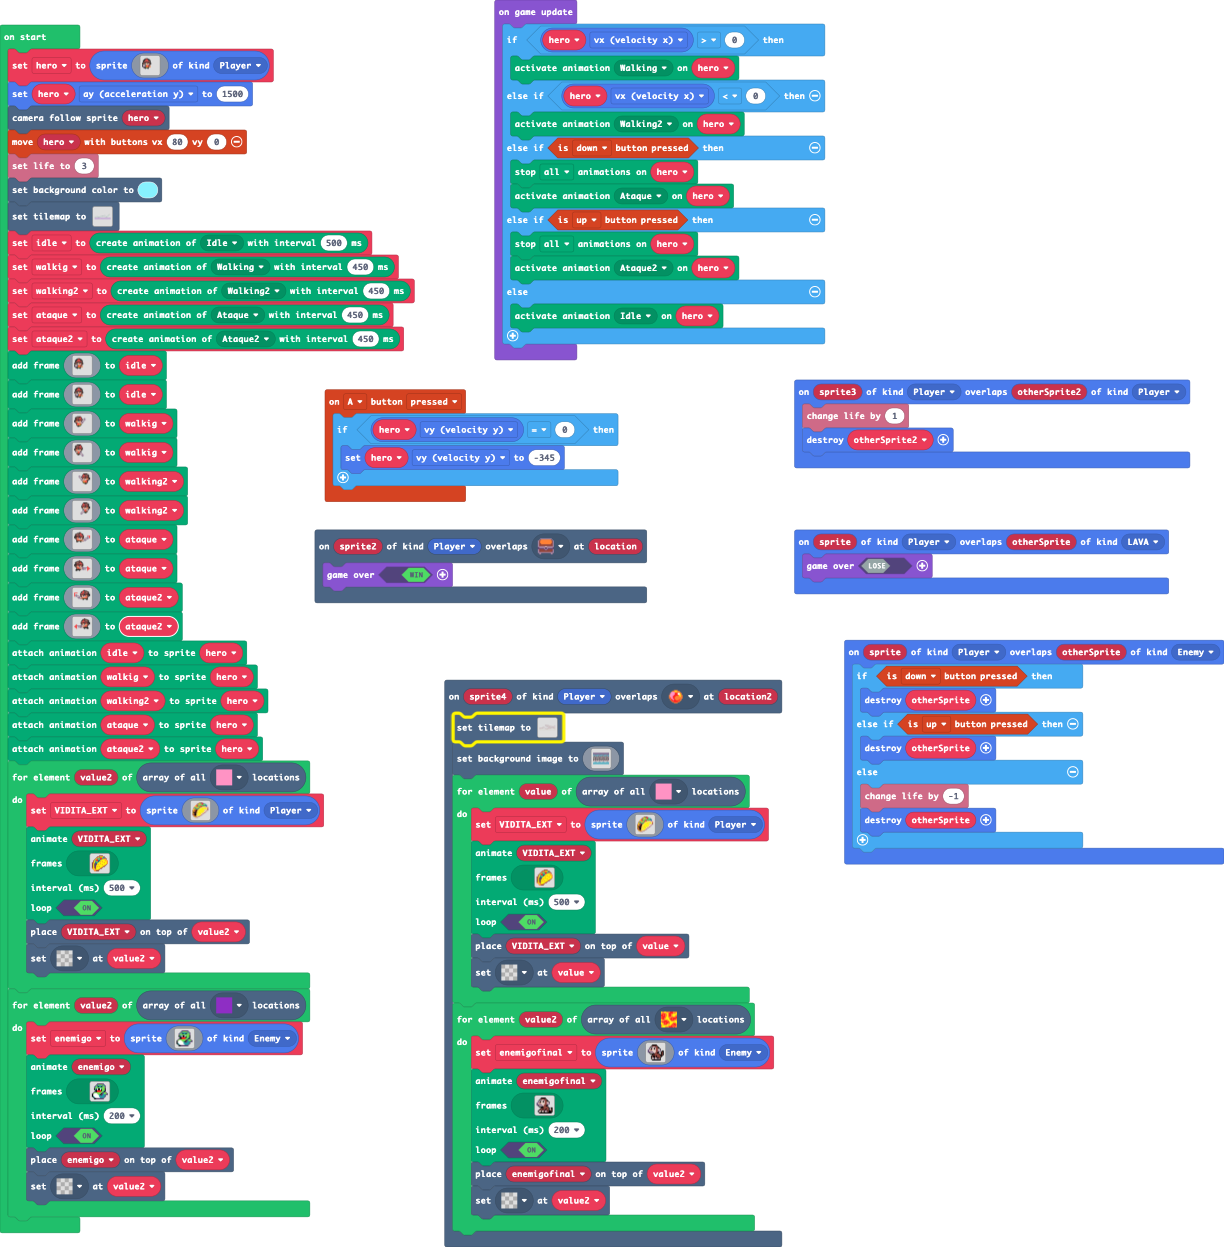
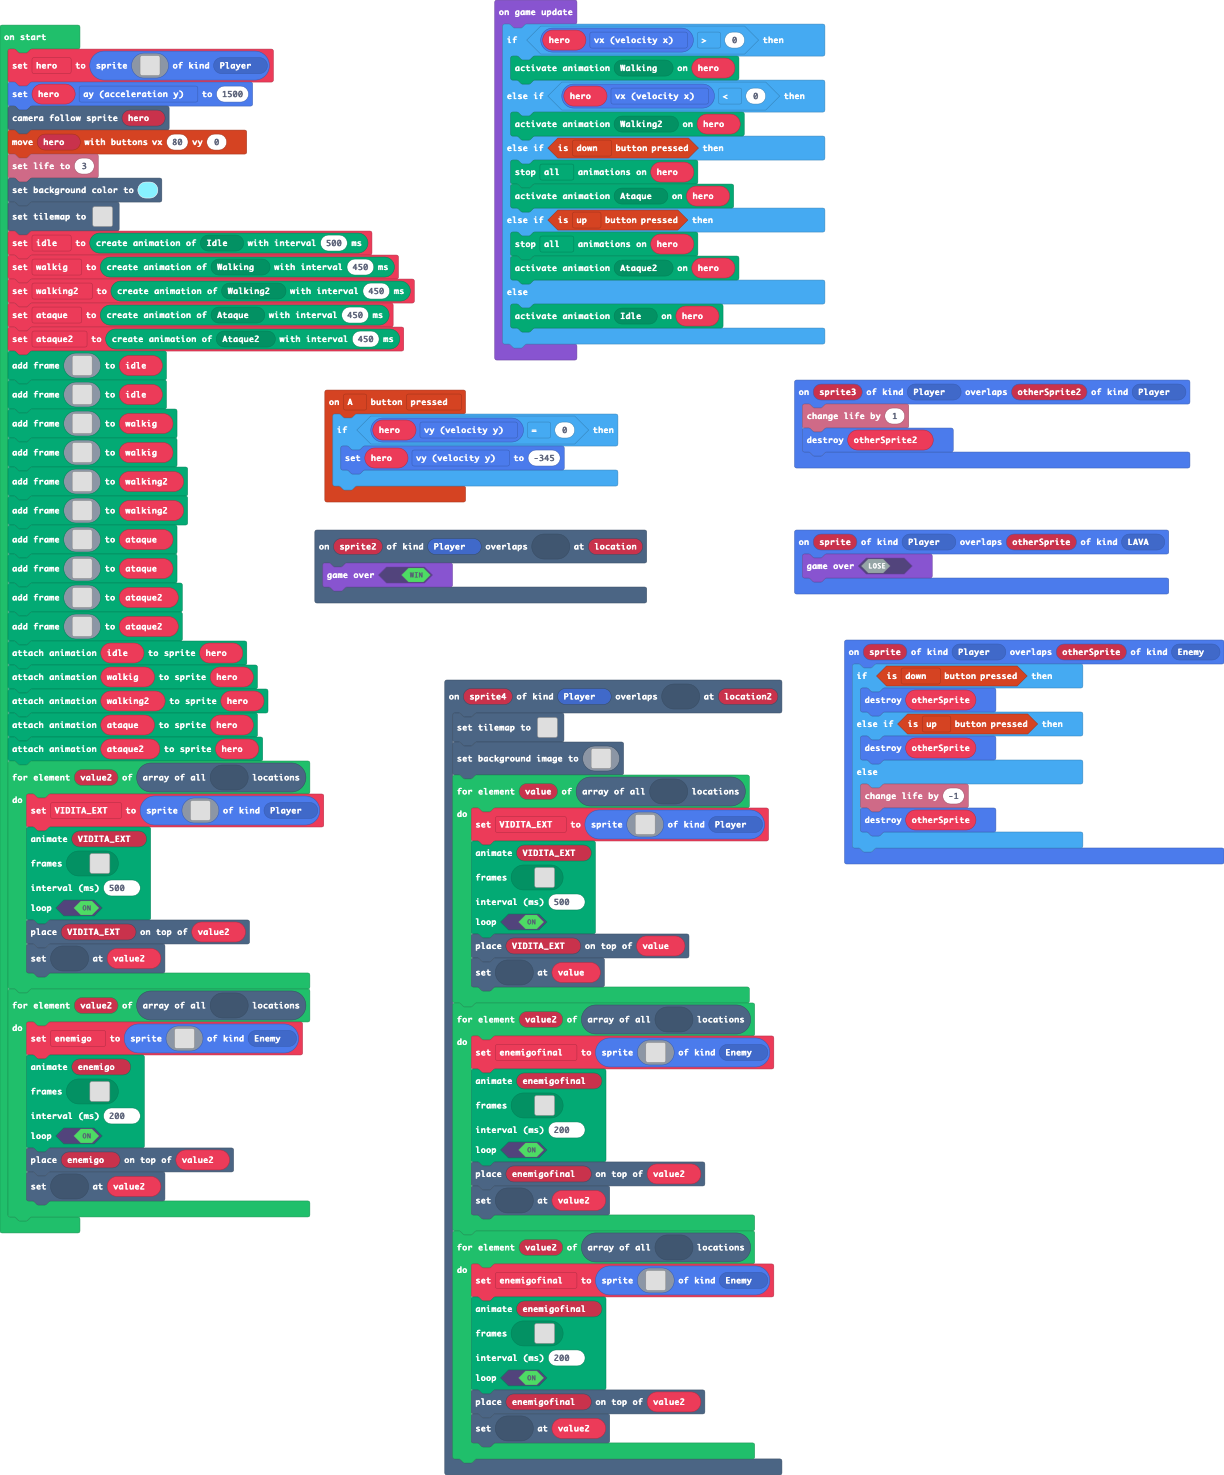
Update main.blocks, main.ts, tilemap.g.jres, tilemap.g.ts

diff --git a/tilemap.g.ts b/tilemap.g.ts
@@ -10,6 +10,8 @@ namespace myTiles {
     export const tile8 = image.ofBuffer(hex``);
     //% fixedInstance jres blockIdentity=images._tile
     export const tile1 = image.ofBuffer(hex``);
+    //% fixedInstance jres blockIdentity=images._tile
+    export const tile2 = image.ofBuffer(hex``);
 
     helpers._registerFactory("tilemap", function(name: string) {
         switch(helpers.stringTrim(name)) {
@@ -75,7 +77,7 @@ namespace myTiles {
 ............................................................
 `, [myTiles.transparency16,sprites.builtin.forestTiles0,sprites.builtin.forestTiles7,sprites.dungeon.collectibleRedCrystal,myTiles.tile7,myTiles.tile1], TileScale.Sixteen);
             case "level2":
[2 lines of base64/hex data omitted]
 .......................2....................................
 .......................2....................................
 .......................2....................................
@@ -96,7 +98,7 @@ namespace myTiles {
 .........................................................2..
 ............................................................
 222222222222222222222222222222222222222222222222222222222222
-`, [myTiles.transparency16,sprites.builtin.forestTiles8,sprites.castle.shrub,sprites.dungeon.chestClosed,sprites.builtin.forestTiles12,sprites.dungeon.stairSouth,sprites.dungeon.stairNorth,myTiles.tile7,sprites.castle.tilePath9,sprites.castle.tilePath8,sprites.castle.tilePath7,myTiles.tile5], TileScale.Sixteen);
+`, [myTiles.transparency16,sprites.builtin.forestTiles8,sprites.castle.shrub,sprites.dungeon.chestClosed,sprites.builtin.forestTiles12,sprites.dungeon.stairSouth,sprites.dungeon.stairNorth,myTiles.tile7,sprites.castle.tilePath9,sprites.castle.tilePath8,sprites.castle.tilePath7,myTiles.tile5,myTiles.tile2], TileScale.Sixteen);
         }
         return null;
     })
@@ -112,6 +114,8 @@ namespace myTiles {
             case "tile8":return tile8;
             case "myTile":
             case "tile1":return tile1;
+            case "myTile0":
+            case "tile2":return tile2;
         }
         return null;
     })

diff --git a/main.ts b/main.ts
@@ -341,6 +341,119 @@ scene.onOverlapTile(SpriteKind.Player, sprites.dungeon.collectibleRedCrystal, fu
         tiles.placeOnTile(enemigofinal, value2)
         tiles.setTileAt(value2, assets.tile`transparency16`)
     }
+    for (let value2 of tiles.getTilesByType(assets.tile`myTile0`)) {
+        enemigofinal = sprites.create(img`
+            . . . . f f f f f . . . . . . . 
+            . . . f 9 9 9 9 9 f . . . . . . 
+            . . f 6 c 6 6 c 9 9 f . . . . . 
+            . c 6 f 6 6 f 6 9 9 f f . . . . 
+            . c 6 f 6 6 f 6 9 9 6 6 f . . . 
+            c 6 9 9 6 6 6 6 9 9 3 6 c . . . 
+            c 6 6 6 6 6 6 6 9 9 3 6 c . f f 
+            c c c c c 6 6 6 9 9 f c . f 9 f 
+            . f 6 6 6 c 6 9 9 f f . . f 9 f 
+            . . f f f f f 9 9 9 9 f . f 9 f 
+            . . . . f 9 9 9 9 9 9 9 f f 9 f 
+            . . . f 9 f f 9 f 9 9 9 9 f f . 
+            . . . f 9 f f 9 f 9 9 9 9 f . . 
+            . . . f 6 3 f 6 3 f f 9 f . . . 
+            . . . f 6 6 3 6 6 3 3 6 f . . . 
+            . . . . f f f f f f f f f . . . 
+            `, SpriteKind.Enemy)
+        animation.runImageAnimation(
+        enemigofinal,
+        [img`
+            . . . . f f f f f . . . . . . . 
+            . . . f 9 9 9 9 9 f . . . . . . 
+            . . f 6 c 6 6 c 9 9 f . . . . . 
+            . c 6 f 6 6 f 6 9 9 f f . . . . 
+            . c 6 f 6 6 f 6 9 9 6 6 f . . . 
+            c 6 9 9 6 6 6 6 9 9 3 6 c . . . 
+            c 6 6 6 6 6 6 6 9 9 3 6 c . . . 
+            c c c c c 6 6 9 9 9 f c . . . . 
+            . f 6 6 6 c 6 9 9 f f . . . . . 
+            . . f f f f f 9 9 9 9 f . . . . 
+            . . . . f f 9 9 9 9 9 9 f . f f 
+            . . . f 9 9 f 9 9 f 9 9 f . 9 f 
+            . . f 9 9 f 9 9 f 9 9 9 f . 9 f 
+            . f 3 6 f 6 3 f 3 3 f 9 f f 9 f 
+            . f 6 6 f 6 6 f 6 6 3 9 f f f f 
+            . . f f f f f f f f f f f f f . 
+            `,img`
+            . . . . f f f f f . . . . . . . 
+            . . . f 9 9 9 9 9 f . . . . . . 
+            . . f 6 6 6 6 9 9 9 f . . . . . 
+            . c 6 f 6 6 f 6 9 9 f f . . . . 
+            . c 6 f 6 6 f 6 9 9 6 6 f . . . 
+            c 6 9 9 6 6 6 6 9 9 3 6 c . . . 
+            c 6 6 6 6 6 6 6 9 9 3 6 c . . . 
+            c c c c c 6 6 9 9 9 f c . . . . 
+            . f 6 6 6 6 9 9 9 f f . . . . . 
+            . . f 9 9 9 f f 9 9 9 f . . . . 
+            . . f f f f f 9 9 9 9 9 f . f f 
+            . . f 6 3 f 9 9 f f 9 9 f . 9 f 
+            . f f 6 6 f 9 f f 9 9 9 f . 9 f 
+            . f f f f f f 9 3 3 f 9 f f 9 f 
+            . f 6 6 f 9 9 9 6 6 3 9 f f f f 
+            . . f f f f f f f f f f f f f . 
+            `,img`
+            . . . . . f f f f f . . . . . . 
+            . . . . f 9 9 9 9 9 f . . . . . 
+            . . . f 6 6 6 6 6 9 9 f . . . . 
+            . . f f f 6 6 f f 6 9 f f . . . 
+            . c 6 6 9 9 6 6 6 6 9 6 6 f . . 
+            . c 6 6 6 6 6 6 6 6 9 6 f f f . 
+            . c 6 c c c c 6 6 6 9 6 f 3 6 f 
+            . . c 6 6 6 6 6 6 9 9 f f 6 6 f 
+            . . . c 6 6 6 6 9 9 f f 9 f f f 
+            . . . . f f f 9 9 f 9 9 9 f . . 
+            . . . . f 9 9 9 9 9 9 9 f f f . 
+            . . . f 9 9 9 9 9 9 f f f 9 f . 
+            . . f f 9 9 9 9 f f f f f 9 f . 
+            . f 3 6 f 9 9 f 3 3 f f f 9 f . 
+            . f 6 6 f 9 9 f 6 6 3 f f f f . 
+            . f f f f f f f f f f f f f . . 
+            `,img`
+            . . . . . . . . . . . . . . . . 
+            . . . . . . . . . . . . . . . . 
+            . . . . f f f f f . . . . . . . 
+            . . . f 9 9 9 9 9 f . . . . . . 
+            . . f 6 6 6 6 9 9 9 f . . . . . 
+            . . f 6 6 6 6 6 9 9 f f . . . . 
+            . c 6 6 6 f f 6 9 9 6 6 f . . . 
+            c 6 9 9 6 6 6 6 9 9 3 6 c . . . 
+            c f f 6 6 c 6 6 9 9 3 6 c . . . 
+            f 6 6 f 9 f f f 9 9 9 f . . . . 
+            f 6 6 f 9 9 9 f f f f f . . . . 
+            f f f f f 9 9 9 9 9 f f . f f . 
+            . f f f 9 f f 9 9 9 f f . 9 f . 
+            . f 3 6 f 9 f f 3 3 f f f 9 f . 
+            . f 6 6 f 9 9 f 6 6 3 f f 9 f . 
+            . f f f f f f f f f f f f f . . 
+            `,img`
+            . . . . f f f f f . . . . . . . 
+            . . . f 9 9 9 9 9 f . . . . . . 
+            . . f 6 6 6 6 9 9 9 f . . . . . 
+            . . f 6 6 f 6 6 9 9 f f . . . . 
+            . c 6 6 6 f 6 6 9 9 6 6 f . . . 
+            c 6 9 9 6 6 6 6 9 9 3 6 c . . . 
+            c 6 6 6 6 c 6 6 9 9 3 6 c . . . 
+            c f f f f 6 6 6 9 9 f c f . . . 
+            . f 3 6 f f f 9 9 9 9 f . . . . 
+            . f 6 6 f 9 f f f 9 9 f . . . . 
+            . . f f f 9 9 9 9 f f f . f f . 
+            . . f 9 9 f 9 9 9 9 f f . 9 f . 
+            . f f 9 9 9 f f f f f f f 9 f . 
+            . f 3 6 f 9 9 f 3 3 f f f 9 f . 
+            . f 6 6 f f 9 9 6 6 3 f f f f . 
+            . f f f f f f f f f f f f f . . 
+            `],
+        200,
+        true
+        )
+        tiles.placeOnTile(enemigofinal, value2)
+        tiles.setTileAt(value2, assets.tile`transparency16`)
+    }
 })
 sprites.onOverlap(SpriteKind.Player, SpriteKind.Enemy, function (sprite, otherSprite) {
     if (controller.down.isPressed()) {
